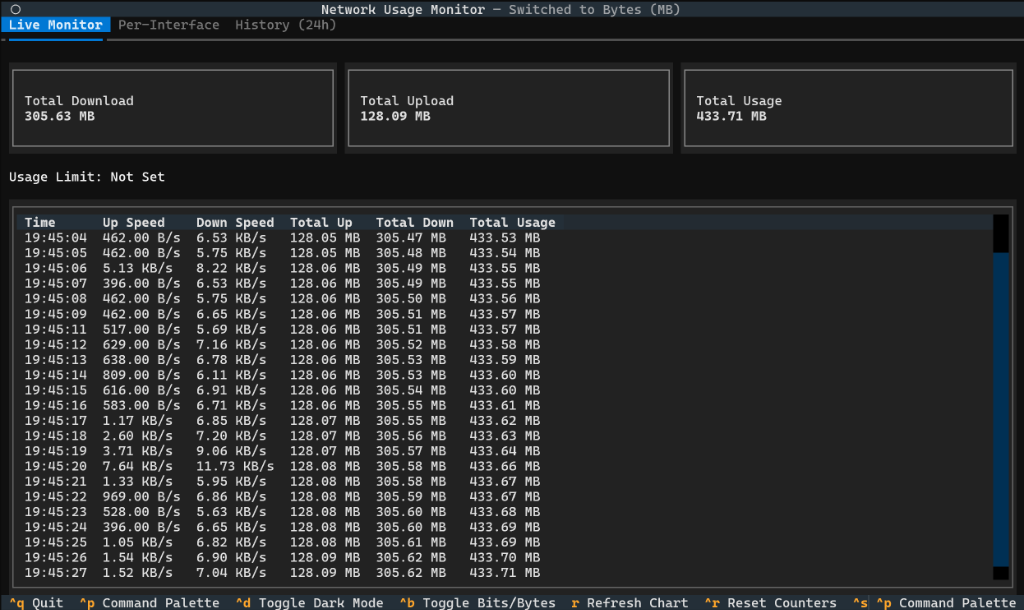
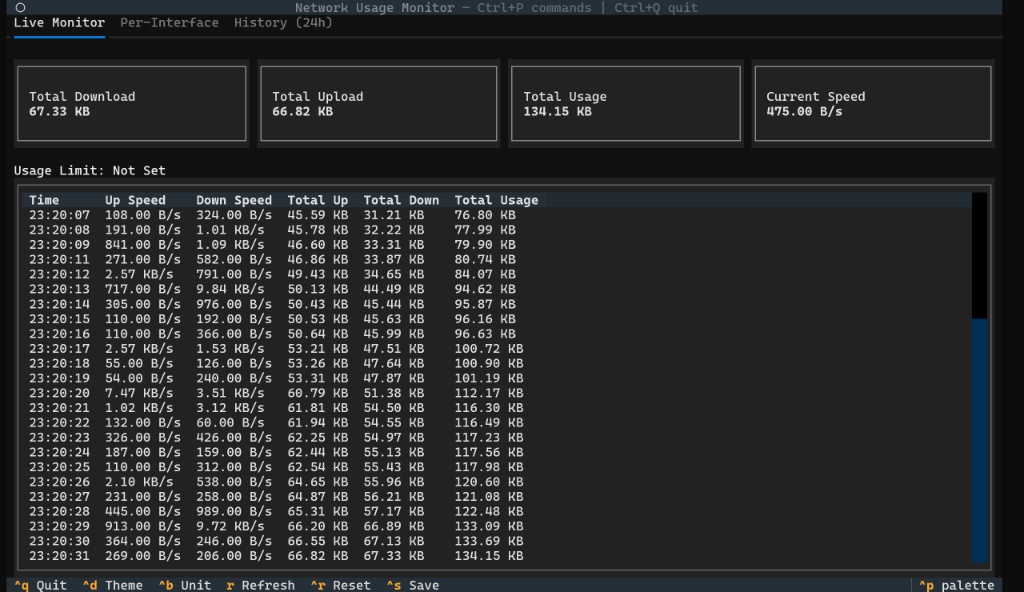
docs: update demo screenshot with latest dashboard interface

Changed region(s): [[0.0, 0.2736, 1.0, 1.0], [0.0, 0.0, 1.0, 0.2432]]

diff --git a/docs/index.md b/docs/index.md
@@ -5,7 +5,7 @@ Welcome to the official documentation for **Netwatch**, the advanced CLI network
 
 Netwatch is a Python-based TUI (Text User Interface) application designed to help you track your internet usage, enforce data caps, and analyze traffic trends over time.
 
-![Demo](https://raw.githubusercontent.com/Destroyer795/Netwatchpy-package/main/assets/demo.png)
+![Demo](assets/demo.png)
 
 ## Key Features
 

diff --git a/README.md b/README.md
@@ -7,7 +7,7 @@ A TUI (Text-based User Interface) for monitoring network usage in real-time, wit
 
 ---
 <p align="center">
-<img width="800" height="500" alt="netwatch_demo" src="https://raw.githubusercontent.com/Destroyer795/Netwatchpy-package/main/assets/demo.png" />
+<img width="800" height="500" alt="netwatch_demo" src="assets/demo.png" />
 </p>
 
 ---
